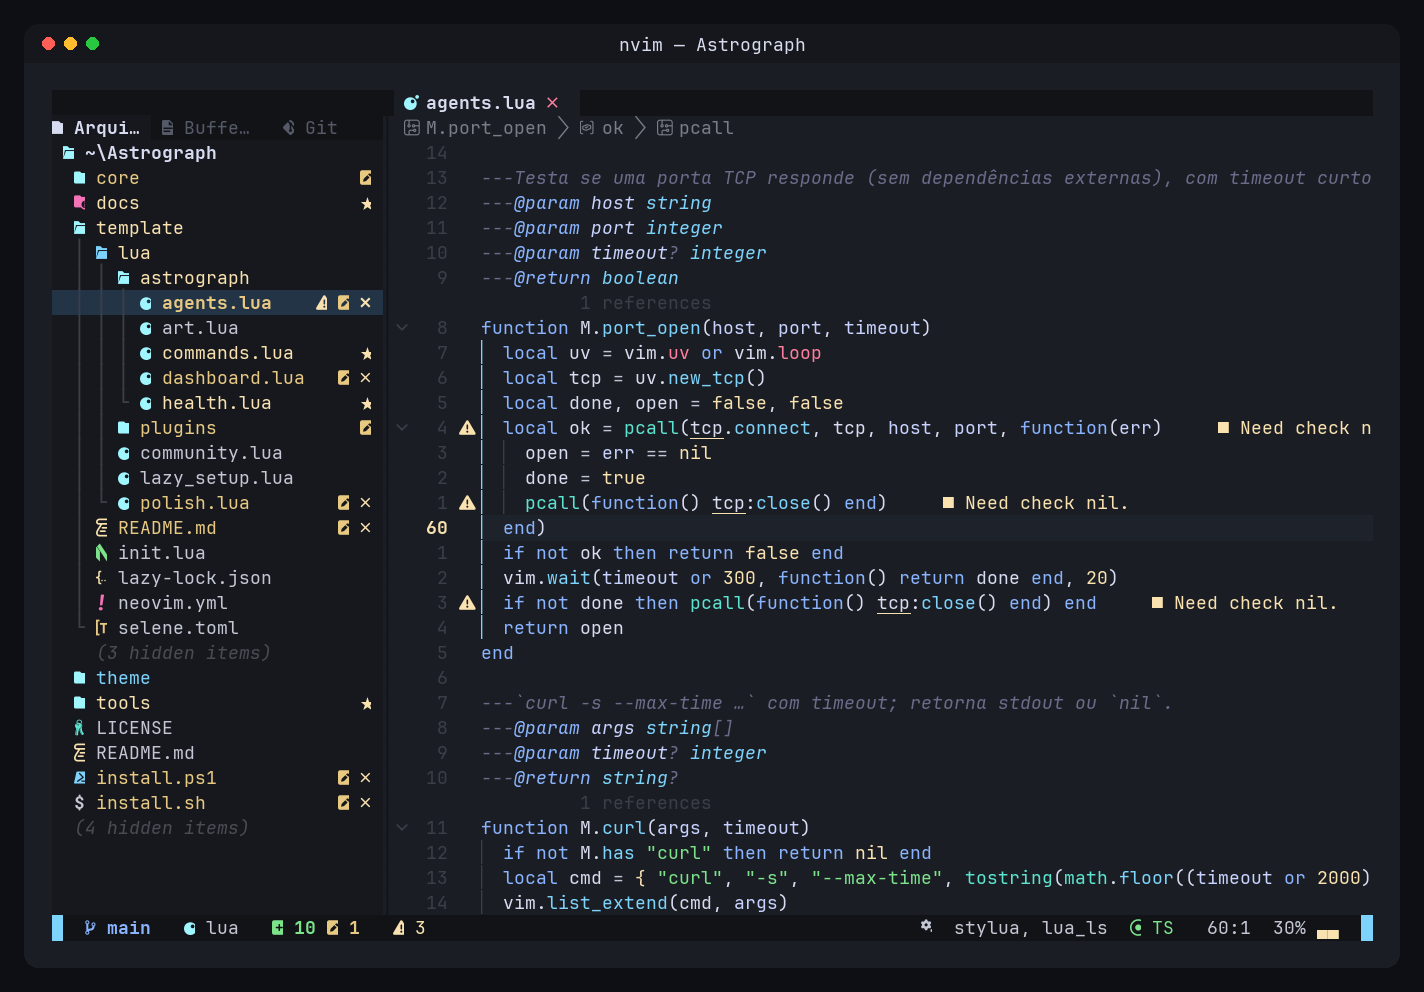
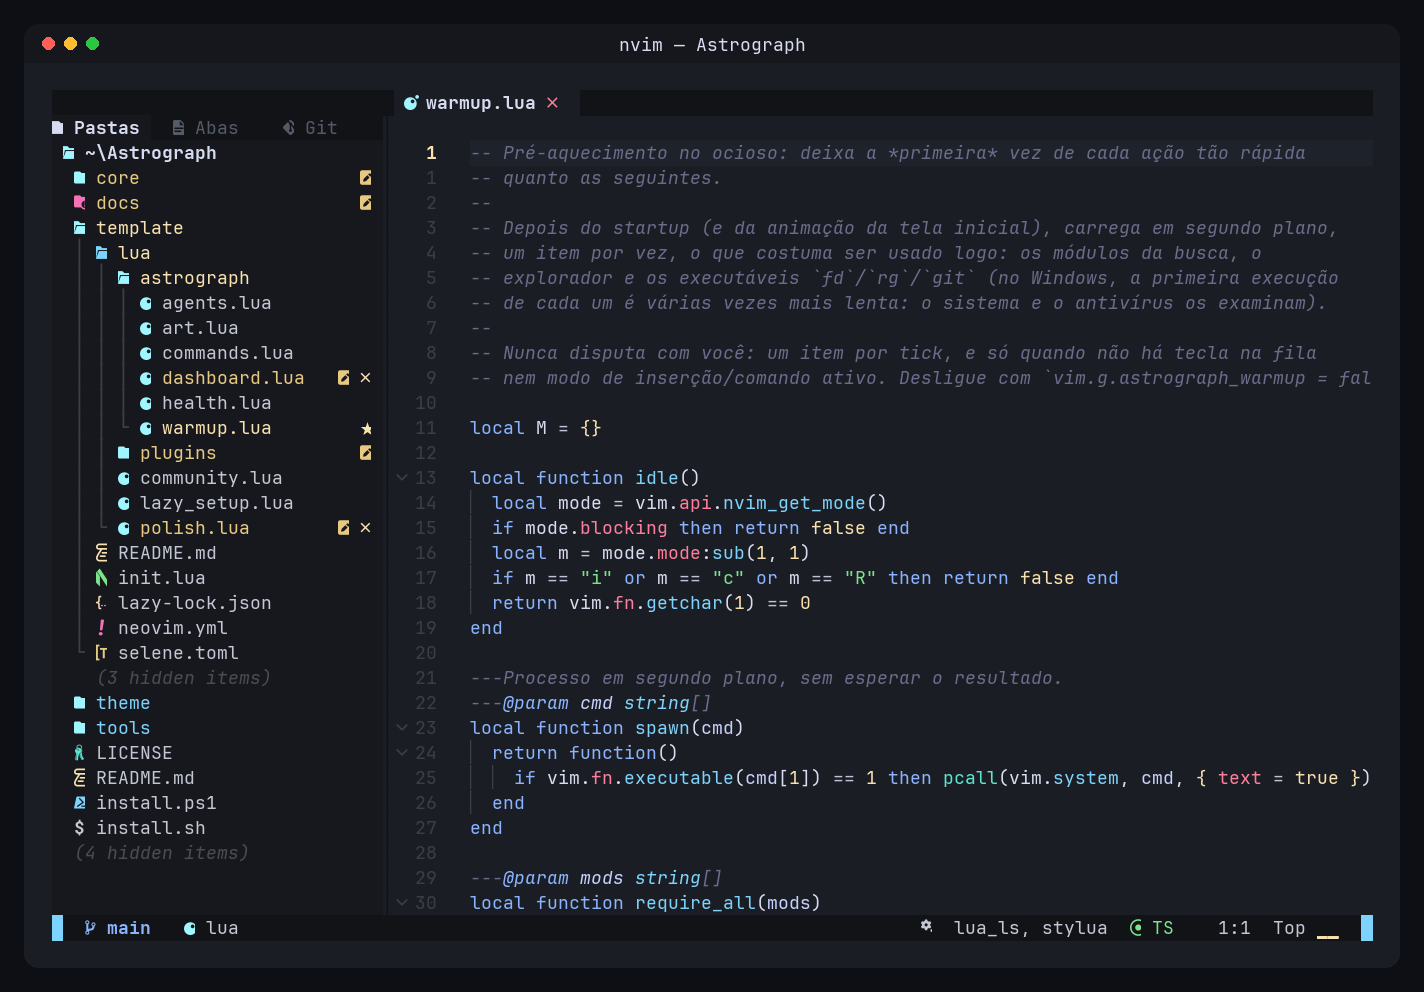
feat: resposta imediata e menos ruido (sensacao "Apple")
Resposta imediata
- astrograph.warmup: pre-aquece no ocioso (modulos da busca, explorador,
  fd/rg/git) um item por vez, so quando nao ha digitacao
- buscas de arquivo/texto/buffers abrem na hora (show_delay = 0) e os
  resultados entram conforme chegam; buscas do LSP inalteradas
- core: dobras e EditorConfig ignoram janelas flutuantes e buffers internos
- menu de atalhos em 150 ms (antes 200)
- medido: 1a busca 235 -> 218 ms, 2a 157 -> 136; explorador 169 -> 149;
  menu 212 -> 159

Conteudo em primeiro lugar
- sem ~ no fim do buffer; CodeLens desligado por padrao (<Leader>uL)
- leve translucidez no menu de completacao (pumblend)
- rodape da tela inicial discreto: "pronto em X ms"
- abas do explorador sem cortes: Pastas, Abas, Git

Docs: principios de design, tabela de resposta imediata, prints novos.

diff --git a/docs/performance.md b/docs/performance.md
@@ -13,6 +13,31 @@ Medido no Windows 11 com `nvim --startuptime` e o profile do lazy.nvim
 | Abrir o editor | ~392 ms | **~256 ms** (−35%) |
 | Primeiro arquivo: caminho crítico | ~230 ms | **~59 ms** (−74%) |
 
+## Resposta imediata
+
+Tempo da tecla até a janela aparecer, com o editor aberto há alguns segundos
+(UI conectada, cache quente):
+
+| Ação | 1ª vez | 2ª vez |
+| --- | --- | --- |
+| Buscar arquivo (`<Leader>ff`) | ~218 ms | ~136 ms |
+| Buscar texto (`<Leader>fw`) | ~178 ms | ~116 ms |
+| Explorador (`<Leader>e`) | ~149 ms | ~63 ms |
+| Menu de atalhos (`Espaço`) | ~159 ms | ~157 ms |
+
+O que entrou para isso:
+
+- **Pré-aquecimento no ocioso** (`astrograph.warmup`): ~1,2 s depois de abrir,
+  um item por vez e só quando você não está digitando, carrega os módulos da
+  busca, o explorador e executa `fd`/`rg`/`git` uma vez (no Windows, a primeira
+  execução de cada um custa 120–210 ms porque o sistema e o antivírus os examinam).
+  Desligue com `vim.g.astrograph_warmup = false`.
+- **Buscas abrem na hora**: a janela aparece sem esperar o `fd`/`rg` responder,
+  e os resultados entram conforme chegam.
+- **Janelas flutuantes mais leves**: o core não recalcula dobras nem procura
+  `.editorconfig` para janelas do picker, preview e painéis.
+- **Menu de atalhos** aparece em 150 ms (antes 200 ms).
+
 ## De onde veio o ganho
 
 O código legado do Vim (plugins de `$VIMRUNTIME`, `syntax`, `ftplugin`) custava

diff --git a/docs/desenvolvimento.md b/docs/desenvolvimento.md
@@ -45,6 +45,7 @@ O caminho real da config é resolvido mesmo através de junction/symlink, então
 | `agents.lua` | Detecta CLIs de IA, Ollama e modelo local (com cache) |
 | `commands.lua` | `:Astrograph atualizar / saude / agentes / atalhos / docs` |
 | `health.lua` | `:checkhealth astrograph` |
+| `warmup.lua` | Pré-aquecimento no ocioso (busca, explorador, `fd`/`rg`/`git`) |
 | `dashboard.lua` | Cena animada da tela inicial e rodapé em português |
 | `plugins/visual.lua` | ui2, bordas arredondadas, ghost text e cursor animado |
 | `art.lua` | Arte gerada por `tools/gen_art.py` (não edite à mão) |
@@ -58,6 +59,8 @@ comentários `Astrograph:` no código:
 - `plugins/_astrocore_autocmds.lua`: arquivo em estágios (`AstroFile` →
   `AstroFileIdle`) e detecção do git sem processo externo;
 - `plugins/toggleterm.lua`: atalhos de ferramentas externas registrados após o startup;
+- `plugins/_astroui.lua` e `_astrocore_autocmds.lua`: dobras e EditorConfig ignoram
+  janelas flutuantes e buffers internos (abrir a busca ficou mais leve);
 - `astronvim/lazygit.lua` + `plugins/_astroui.lua`: tema do lazygit só quando ele existe;
 - descrições dos atalhos, tela inicial e mensagens em português.
 

diff --git a/docs/index.md b/docs/index.md
@@ -27,6 +27,20 @@ editor**, abertura mais rápida e tudo em **português**.
 | **Tema próprio** | `astrograph` (escuro) e `astrograph-light`, com contraste verificado. |
 | **Instalação de uma linha** | Windows, Linux e macOS: o instalador cuida de Neovim, Git, ripgrep, fd, compilador C e fonte. |
 
+## Como ele é pensado
+
+O Astrograph segue a mesma ideia dos produtos da Apple: parecer moderno e rápido
+não por enfeite, mas por cuidado com o que você sente ao usar.
+
+- **Resposta imediata.** A primeira busca é quase tão rápida quanto as seguintes:
+  o que você costuma usar é pré-carregado quando o editor está ocioso.
+- **O conteúdo em primeiro lugar.** Sem ruído entre as linhas de código, sem
+  `~` no fim do arquivo, mensagens discretas.
+- **Movimento com propósito.** Animações curtas, a 60 fps, que desaceleram no fim
+  e nunca atrasam o que você está fazendo.
+- **Acabamento uniforme.** Bordas arredondadas, rótulos que cabem e textos em
+  português em toda a interface.
+
 ## Em ação
 
 ![Editor com explorador de arquivos]({{ '/img/editor.png' | relative_url }})

diff --git a/docs/astronvim.md b/docs/astronvim.md
@@ -44,7 +44,8 @@ Medido no Windows 11 (veja [Performance](performance)).
 
 | Ponto | AstroNvim | Astrograph |
 | --- | --- | --- |
-| Abrir o editor | ~392 ms | **~256 ms** |
+| Abrir o editor | ~392 ms | **~258 ms** |
+| 1ª busca de arquivo / explorador | sem pré-aquecimento | pré-carregados no ocioso; busca abre antes dos resultados |
 | Primeiro arquivo (caminho crítico) | ~120 ms, tudo de uma vez | **~59 ms**; o resto vem em seguida, sem travar |
 | Saber se o arquivo está num repositório git | `cmd.exe /C git rev-parse` em todo arquivo (~39 ms) | procura `.git` em Lua (~0,2 ms) |
 | Checar programas externos (lazygit, node…) | no boot (~20 ms cada ausente, no Windows) | depois da animação de entrada, com cache |

diff --git a/docs/tema.md b/docs/tema.md
@@ -60,6 +60,8 @@ depois as estrelas piscam devagar.
 | **Bordas arredondadas** | Em hovers do LSP, diagnósticos, completação e documentação. |
 | **Ghost text** | A primeira sugestão da completação aparece em cinza na própria linha. |
 | **Linha do cursor** | Destacada só na janela ativa. |
+| **Menos ruído** | Sem `~` depois do fim do arquivo; CodeLens ("N references") desligado por padrão (`<Leader>uL` liga); menu de completação levemente translúcido. |
+| **Tela inicial** | Rodapé discreto: só "pronto em X ms". |
 
 ![Linha de comando com destaque]({{ '/img/linha-de-comando.png' | relative_url }})
 

diff --git a/README.md b/README.md
@@ -42,6 +42,8 @@ rodar `nvim`.
   arquivos abrem em estágios, com o essencial em ~59 ms.
 - **Moderno no terminal**: linha de comando com destaque, cursor animado, bordas
   arredondadas, ghost text na completação e animações a 60 fps.
+- **Resposta imediata**: o que você usa é pré-carregado quando o editor está
+  ocioso, e o código aparece sem ruído (sem CodeLens nem `~` por padrão).
 - **Tema próprio**: `astrograph` (escuro) e `astrograph-light`, com contraste
   verificado.
 - **Arquivos editados pelo agente recarregam sozinhos** no editor.
